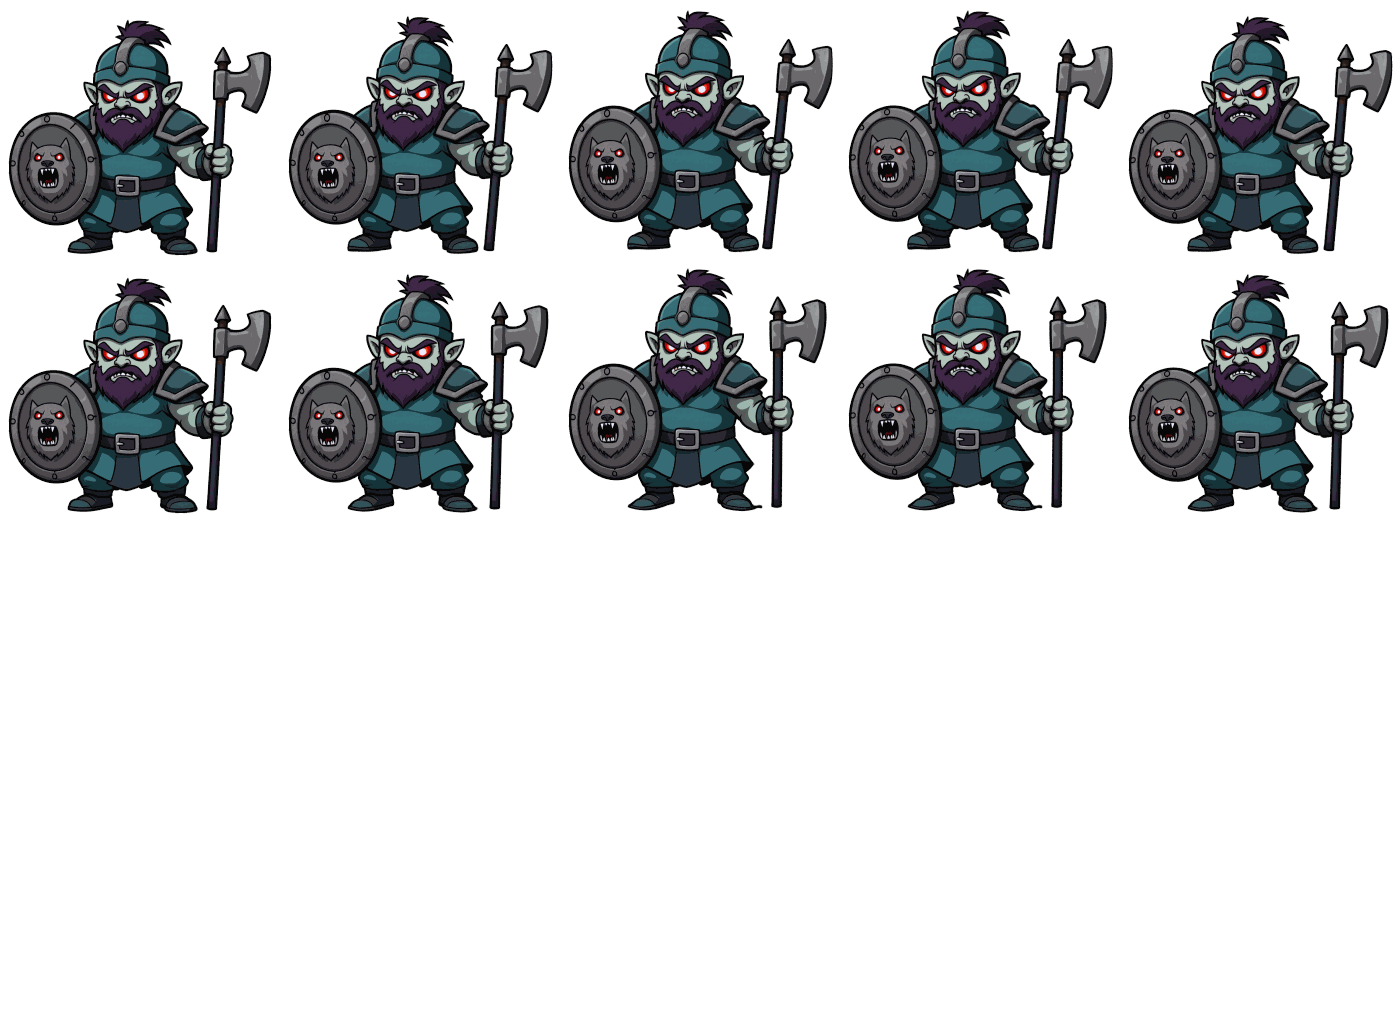
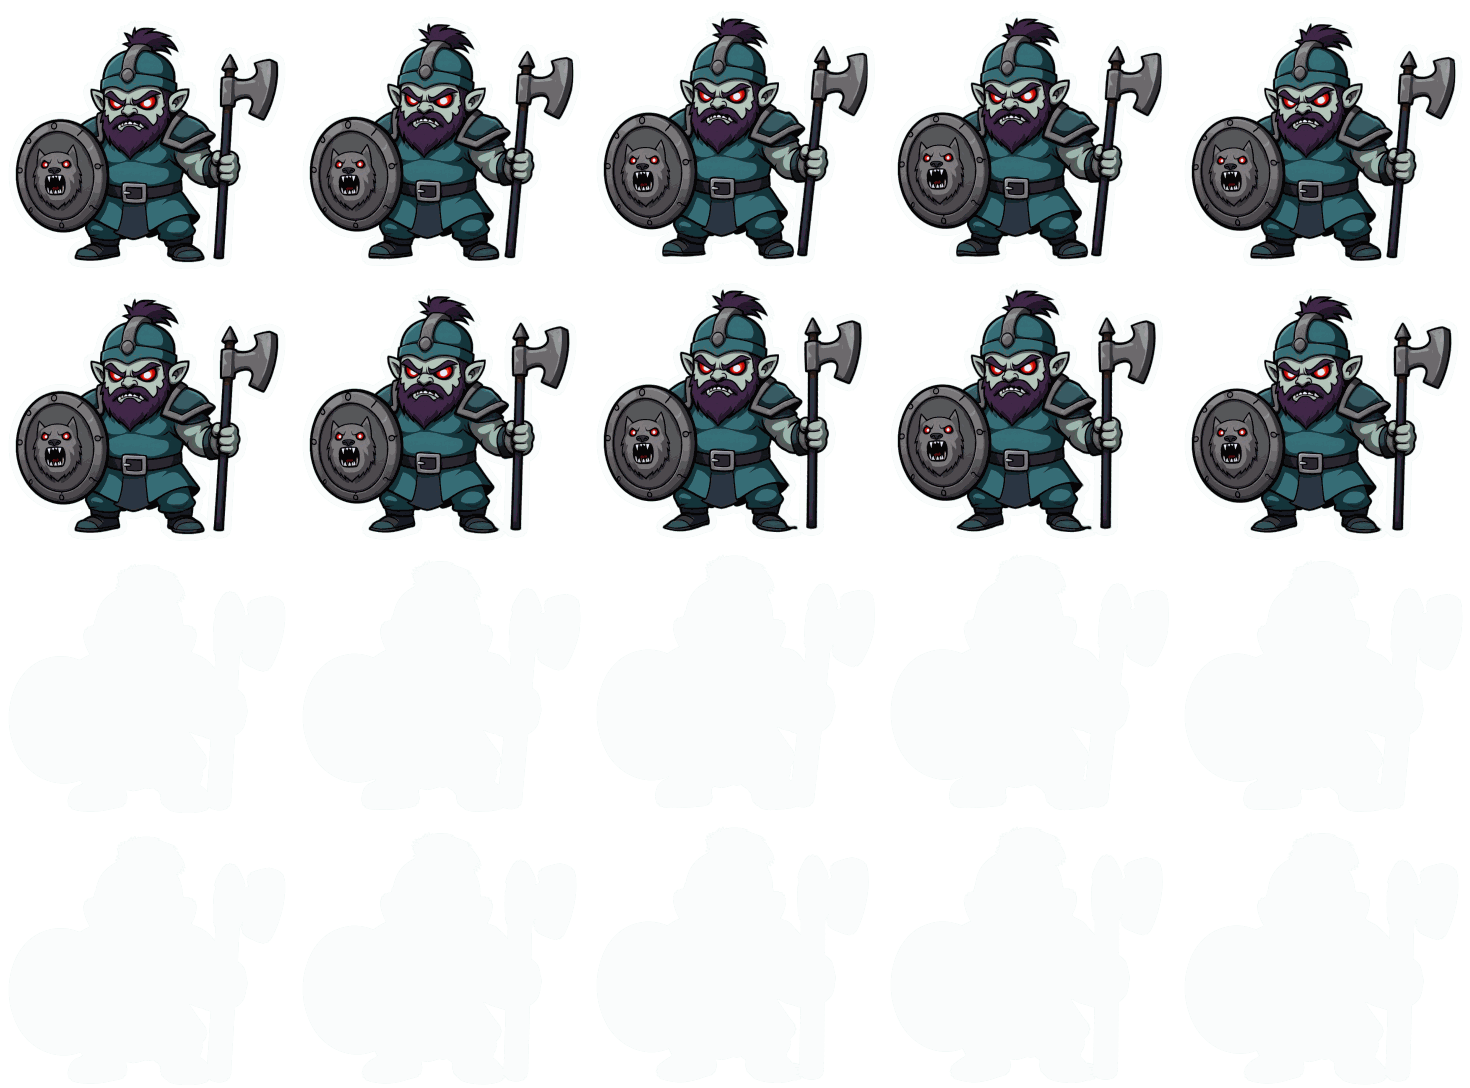
Less memory: elite rims baked offline, lobby art unloaded during runs
- The toad king, wolf leader and door god sheets carry their sticker rim (bake_mob.py
  "outline"), so a run no longer keeps a plain sheet beside a rimmed copy baked at
  start (about 15 MB of GPU memory by the end of the chapters, and no bake hitch).
- A run frees the lobby backdrop and the patrol art (about 6.6 MB); the next lobby
  loads them again from the cache.

Changed region(s): [[0.0, 0.0, 1.0, 0.4961]]

diff --git a/client/src/art.ts b/client/src/art.ts
@@ -59,22 +59,44 @@ function once(key: string, load: () => Promise<void>): Promise<void> {
   return p;
 }
 
+/** The lobby's textures: its backdrop (art/monk/ui), the patrol panel's road and props (art/monk/ui/patrol). */
+const LOBBY = { backdrop: 'art/ui/lobby.jpg', far: 'art/ui/patrol_far.jpg', props: 'art/ui/patrol_props' };
+/** Settles once freeLobbyArt has let the last lobby art go, so a new load never races the unload. */
+let lobbyGone: Promise<void> = Promise.resolve();
+
 /**
  * Loads the lobby's painted backdrop and the patrol panel's road into `art`. A first run shows
  * neither, so they come in behind the first screen; a lobby waits for them.
  */
 export function loadLobbyArt(platform: Platform, art: Art): Promise<void> {
   return once('lobby', async () => {
+    await lobbyGone;
     const [lobby, far, props] = await Promise.all([
-      // the lobby's backdrop (art/monk/ui)
-      Assets.load<Texture>('art/ui/lobby.jpg'),
-      // the patrol panel's road (art/monk/ui/patrol)
-      Assets.load<Texture>('art/ui/patrol_far.jpg'),
-      loadDeco(platform, 'art/ui/patrol_props'),
+      Assets.load<Texture>(LOBBY.backdrop),
+      Assets.load<Texture>(LOBBY.far),
+      loadDeco(platform, LOBBY.props),
     ]);
     art.lobby = lobby;
     art.patrol = { far, props: props.frames };
   });
+}
+
+/**
+ * Lets the lobby's art go while a run plays (several MB of GPU memory no run draws); the next
+ * lobby loads it again, from the local cache. Call once the lobby is off screen.
+ */
+export function freeLobbyArt(art: Art): void {
+  const load = loads.get('lobby');
+  if (!load) return;
+  loads.delete('lobby');
+  lobbyGone = load
+    .catch(() => undefined)
+    .then(() => {
+      art.lobby = null;
+      art.patrol = null;
+      return Promise.all([LOBBY.backdrop, LOBBY.far, `${LOBBY.props}.png`].map((url) => Assets.unload(url)));
+    })
+    .then(() => undefined, () => undefined);
 }
 
 /** Loads monk `monk`'s rig into `art` (the kicker's is always there) from the 'monks' art pack. */

diff --git a/client/src/ui/Shell.ts b/client/src/ui/Shell.ts
@@ -26,7 +26,7 @@ import { runLeave } from '../net/leaveProps';
 import type { PerfReport } from '../net/perfReport';
 import type { Device, PropValue } from '@hk/protocol';
 import { eventCue } from '../game/soundCues';
-import { loadLobbyArt, loadMonkArt } from '../art';
+import { freeLobbyArt, loadLobbyArt, loadMonkArt } from '../art';
 import { freeChapterArt, loadChapterArt } from '../chapterArt';
 import { monkRig } from '../game/artTypes';
 import { LobbyScreen } from './LobbyScreen';
@@ -167,9 +167,13 @@ export class Shell {
 
   /** The lobby's art, loading or in. A failed load gives a plain lobby rather than none. */
   private lobbyReady(): Promise<void> {
-    this.lobbyArt ??= loadLobbyArt(this.platform, this.art).catch((err: unknown) => console.error(err)).then(() => {
-      this.lobbyIn = true;
-    });
+    if (!this.lobbyArt) {
+      const load: Promise<void> = loadLobbyArt(this.platform, this.art).catch((err: unknown) => console.error(err)).then(() => {
+        // not if a run freed it meanwhile
+        if (this.lobbyArt === load) this.lobbyIn = true;
+      });
+      this.lobbyArt = load;
+    }
     return this.lobbyArt;
   }
 
@@ -312,6 +316,10 @@ export class Shell {
     this.chapter = chapter;
     this.hard = left ? left.state.config.hard : this.scene.hard || this.save.hard;
     this.setScreen(null);
+    // no run draws the lobby: its art goes until the next lobby asks for it again
+    freeLobbyArt(this.art);
+    this.lobbyArt = null;
+    this.lobbyIn = false;
     const { bonus, freeRevives } = loadout(this.save, chapter, this.hard);
     this.freeRevives = left ? left.freeRevives : freeRevives;
     this.game = new Game(this.app, this.platform, this.art, this.scene, this.stick, left ? setupOf(left.state.config) : {

diff --git a/client/src/game/cast.ts b/client/src/game/cast.ts
@@ -90,7 +90,11 @@ export function makeElites(renderer: Renderer, world: Container, art: Art, scene
   // the elites alone get the sticker rim (outline.ts), baked when one of a kind first comes;
   // on the plain horde it glared
   const rimmed = new Map<EliteKind, MobLook>();
-  const rim = (kind: EliteKind) => rimmed.get(kind) ?? rimmed.set(kind, { ...looks[kind], sheet: outlineSheet(renderer, looks[kind].sheet) }).get(kind)!;
+  // the chapter elites come with it baked in (bake_mob.py), so no plain copy sits beside it
+  const rim = (kind: EliteKind) => {
+    const look = looks[kind];
+    return look.sheet.meta.outline ? look : rimmed.get(kind) ?? rimmed.set(kind, { ...look, sheet: outlineSheet(renderer, look.sheet) }).get(kind)!;
+  };
   const ring = () => makeRing(renderer, ELITE_RING[scene.eliteColor], 1.8, scene.eliteColor !== 'red');
   // only the big jiangshi is tinted; the others are drawn in their own colours
   const tint = (k: number, kind: EliteKind) => (kind === 'charger' ? ELITE_TINTS[k % ELITE_TINTS.length] : 0xffffff);

diff --git a/client/src/game/outline.ts b/client/src/game/outline.ts
@@ -4,7 +4,9 @@ import type { SheetMeta } from './mobAnim';
 import { sliceSheet, type MobSheet } from './mobView';
 
 // The elites' sticker edge: a pale cold rim around the big foes, so they stand out of the
-// dark horde on the dark ground (the plain mobs go without: on all of them it glared). Baked once per sheet when a run
+// dark horde on the dark ground (the plain mobs go without: on all of them it glared). The
+// chapter elites have it baked into their sheets (tools/bake_mob.py "outline"); the jiangshi,
+// whose sheet the horde draws plain, gets it baked when a run
 // starts, from the sheet's own white flash copies (stamped around the frame in a ring, tinted,
 // under the frame), into a sheet whose frames are padded so a rim never bleeds into the next.
 

diff --git a/client/src/game/mobAnim.ts b/client/src/game/mobAnim.ts
@@ -15,6 +15,8 @@ export interface SheetMeta {
   height: number;
   /** How far each frame floats above the ground, in sheet px (a jiangshi hop). */
   lift: number[];
+  /** Width of the sticker rim baked round every frame (bake_mob.py "outline"), if any. */
+  outline?: number;
 }
 
 /** Frame shown `time` seconds into the loop, for a mob whose cycle starts at `phase` (0..1). */

diff --git a/tools/bake_mob.py b/tools/bake_mob.py
@@ -12,6 +12,9 @@ spec.json (coordinates in pixels of the cut-out source, times are loop phase 0..
     "frames": 8, "fps": 14,
     "flash": false,                 # optional: no white hit-flash copies (a boss flashes
                                     # through a filter instead; the copies double the sheet)
+    "outline": {"px": 7, "color": "#e2f2ee", "steps": 12},  # optional: the elites' sticker
+                                    # rim (client outline.ts ELITE_OUTLINE), baked in so a run
+                                    # need not keep the plain sheet and a rimmed copy
     "height": 160,                  # px of the source cut-out's height in the sheet
     "ground": [x, y],               # the feet; the sheet's anchor
     "pad": [left, top, right, bottom],
@@ -89,6 +92,24 @@ def inverse(d, t, x, y):
     raise ValueError(f"unknown deformer {kind}")
 
 
+def outline(f, px, steps, colour):
+    """Frame f (premultiplied) grown by px on each side, over a rim px wide of `colour`: its
+    silhouette stamped round a ring of `steps`, as client/src/game/outline.ts does at run time."""
+    h, w = f.shape[:2]
+    H, W = h + 2 * px, w + 2 * px
+    inner = np.zeros((H, W, 4), np.float32)
+    inner[px:px + h, px:px + w] = f
+    keep = np.ones((H, W), np.float32)
+    for i in range(steps):
+        a = 2 * math.pi * i / steps
+        m = np.float32([[1, 0, math.cos(a) * px], [0, 1, math.sin(a) * px]])
+        keep *= 1 - cv2.warpAffine(inner[:, :, 3], m, (W, H), flags=cv2.INTER_LINEAR)
+    rim = np.zeros_like(inner)
+    rim[:, :, :3] = colour * (1 - keep)[:, :, None]
+    rim[:, :, 3] = 1 - keep
+    return inner + rim * (1 - inner[:, :, 3:])
+
+
 def drop_paint(im, rules):
     """Erases matching paint below a line that touches the outside, e.g. a coloured ground
     shadow and the paper showing through it; the same colours inside the outline stay."""
@@ -153,6 +174,13 @@ def bake(spec, base):
         white[:, :, :3] = f[:, :, 3:]
         white[:, :, 3] = f[:, :, 3]
         frames.append(white)
+    ol = spec.get("outline")
+    pad = ol["px"] if ol else 0
+    if ol:
+        colour = np.array([int(ol["color"][k:k + 2], 16) / 255 for k in (1, 3, 5)], np.float32)
+        # the flash copies flash rim and all
+        frames = [outline(f, pad, ol["steps"], colour if i < n else np.ones(3, np.float32)) for i, f in enumerate(frames)]
+        fw, fh = fw + 2 * pad, fh + 2 * pad
     cols = math.ceil(math.sqrt(len(frames) * fh / fw))
     rows = math.ceil(len(frames) / cols)
     sheet = np.zeros((rows * fh, cols * fw, 4), np.float32)
@@ -164,10 +192,12 @@ def bake(spec, base):
     out = Image.fromarray((np.clip(sheet, 0, 1) * 255 + 0.5).astype(np.uint8), "RGBA")
     meta = {
         "frames": n, "flash": n if len(frames) > n else 0, "cols": cols, "frameW": fw, "frameH": fh, "fps": spec["fps"],
-        "anchor": [round(gx * scale, 1), round(gy * scale, 1)],
+        "anchor": [round(gx * scale, 1) + pad, round(gy * scale, 1) + pad],
         # the cut-out's height in sheet px, and how high off the ground each frame floats
         "height": spec["height"], "lift": lift,
     }
+    if ol:
+        meta["outline"] = pad
     return out, meta
 
 
